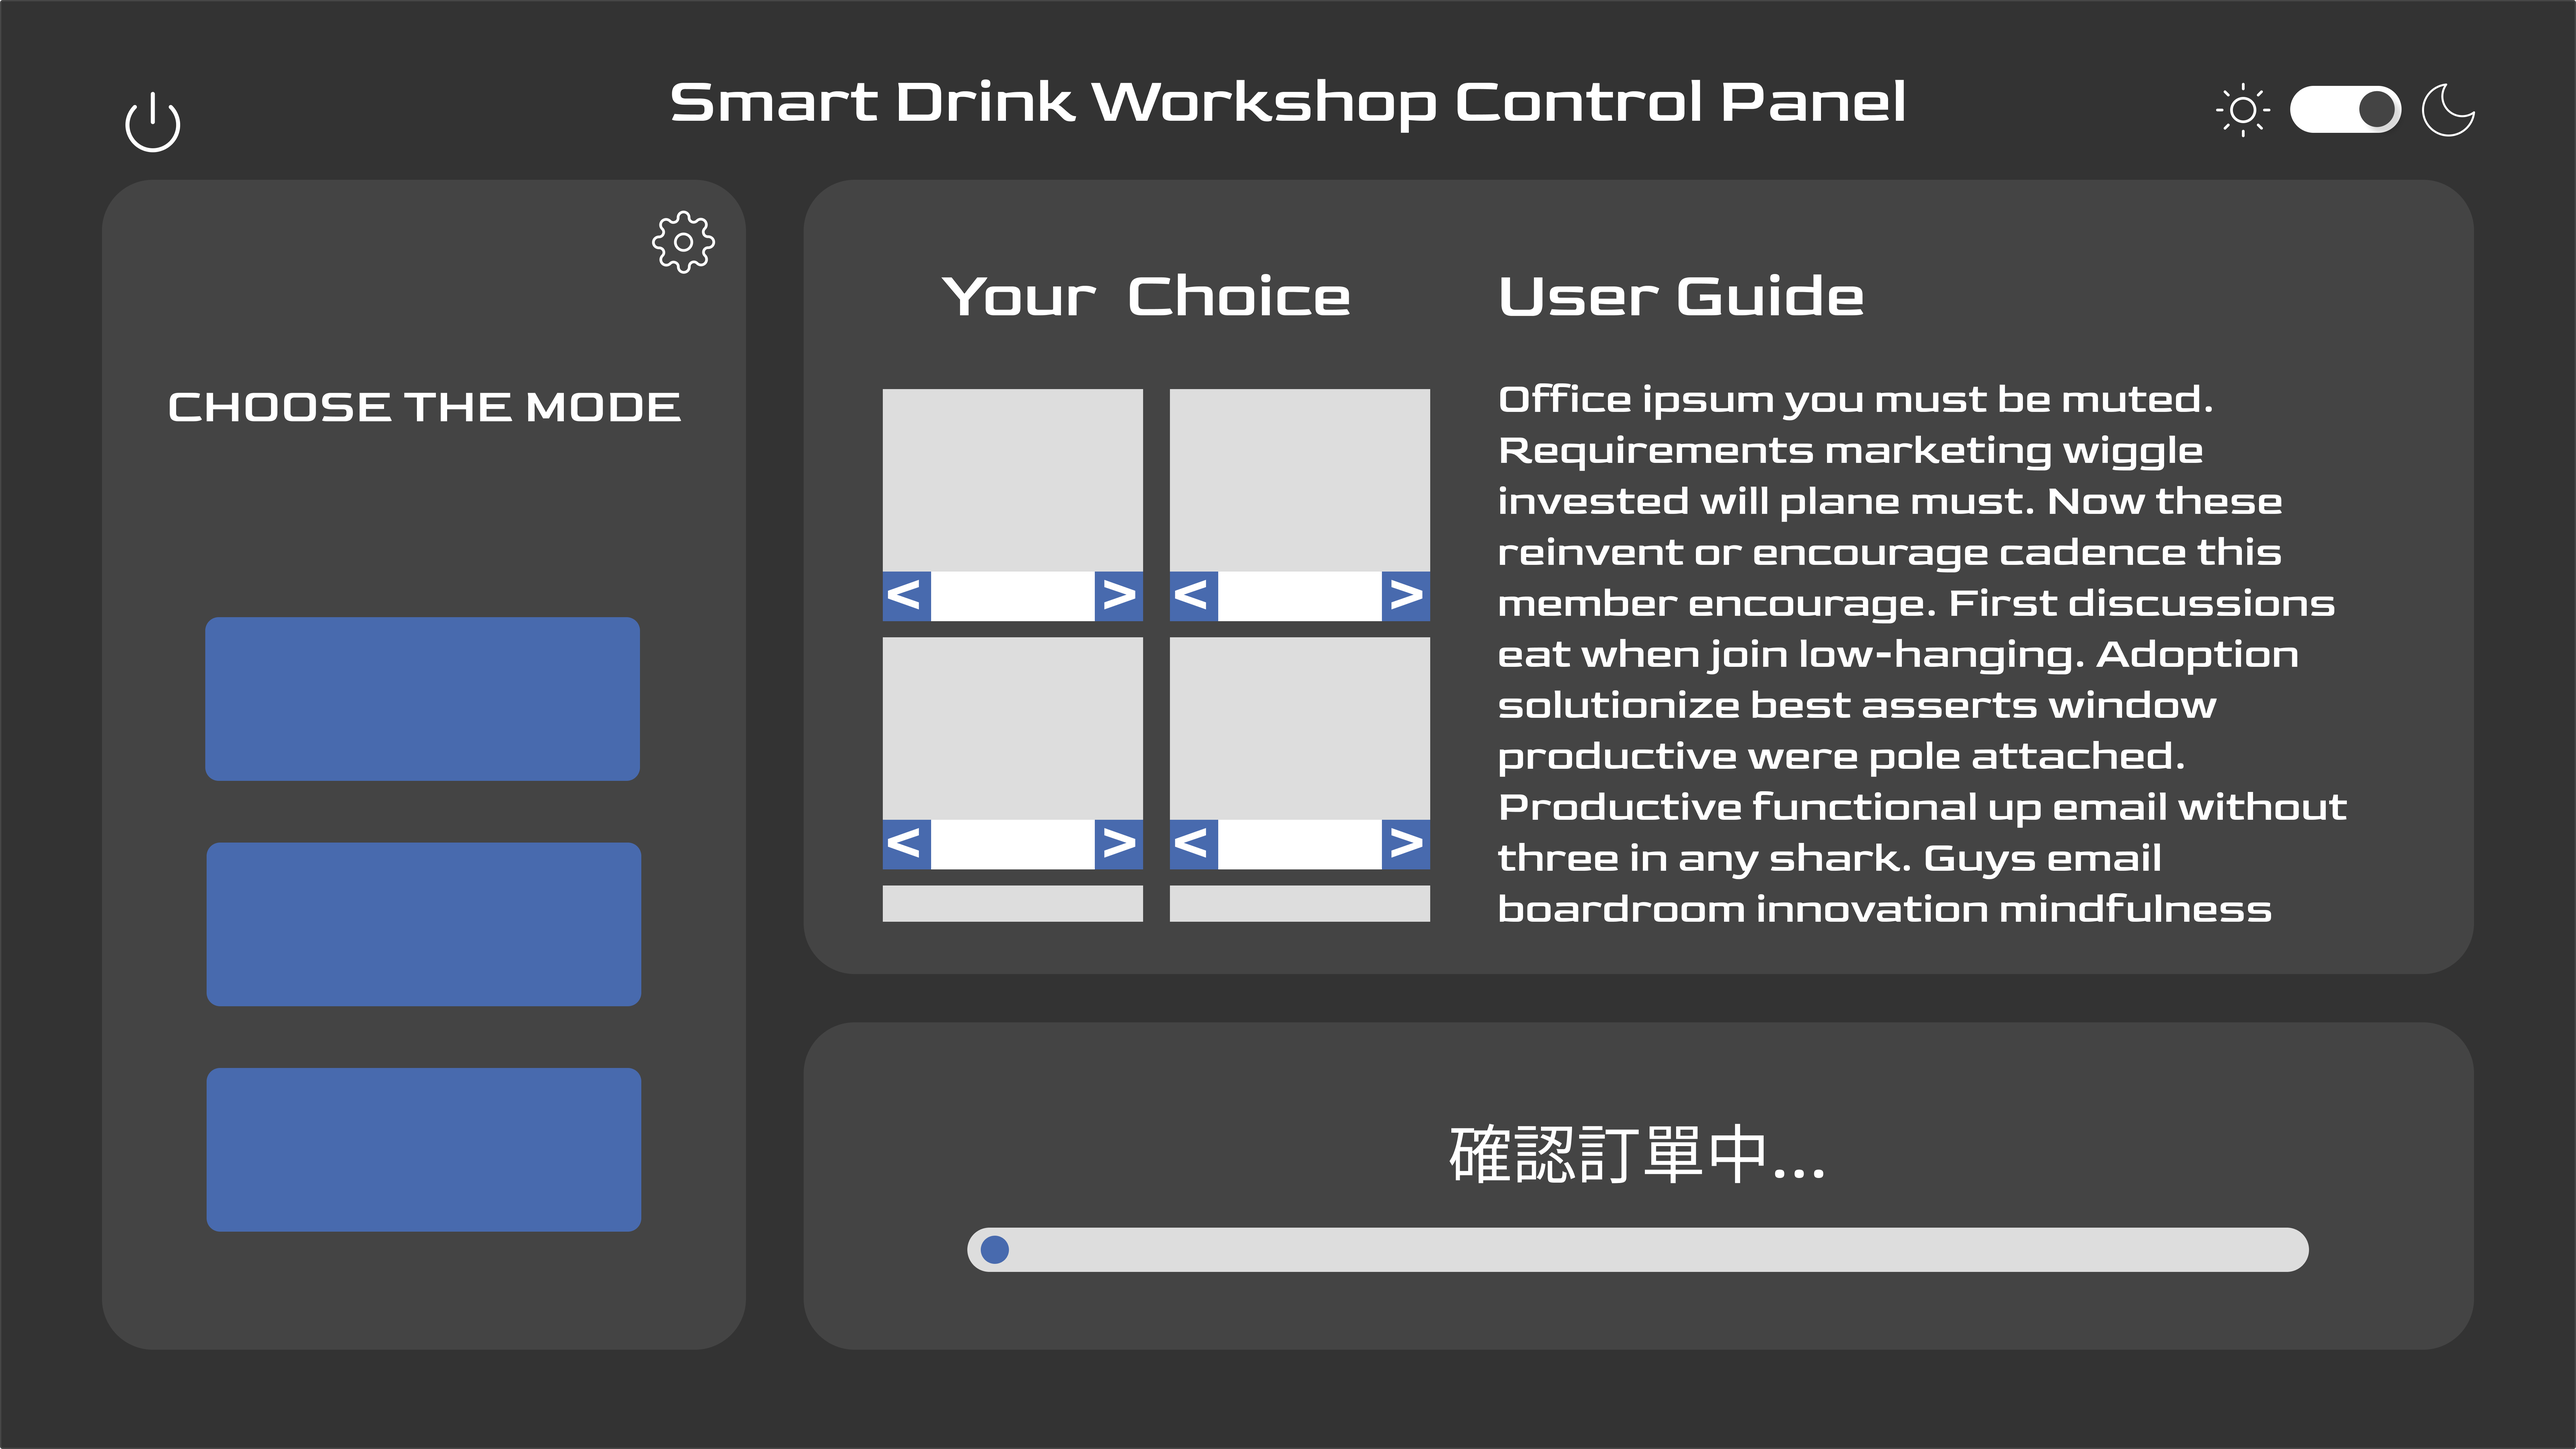
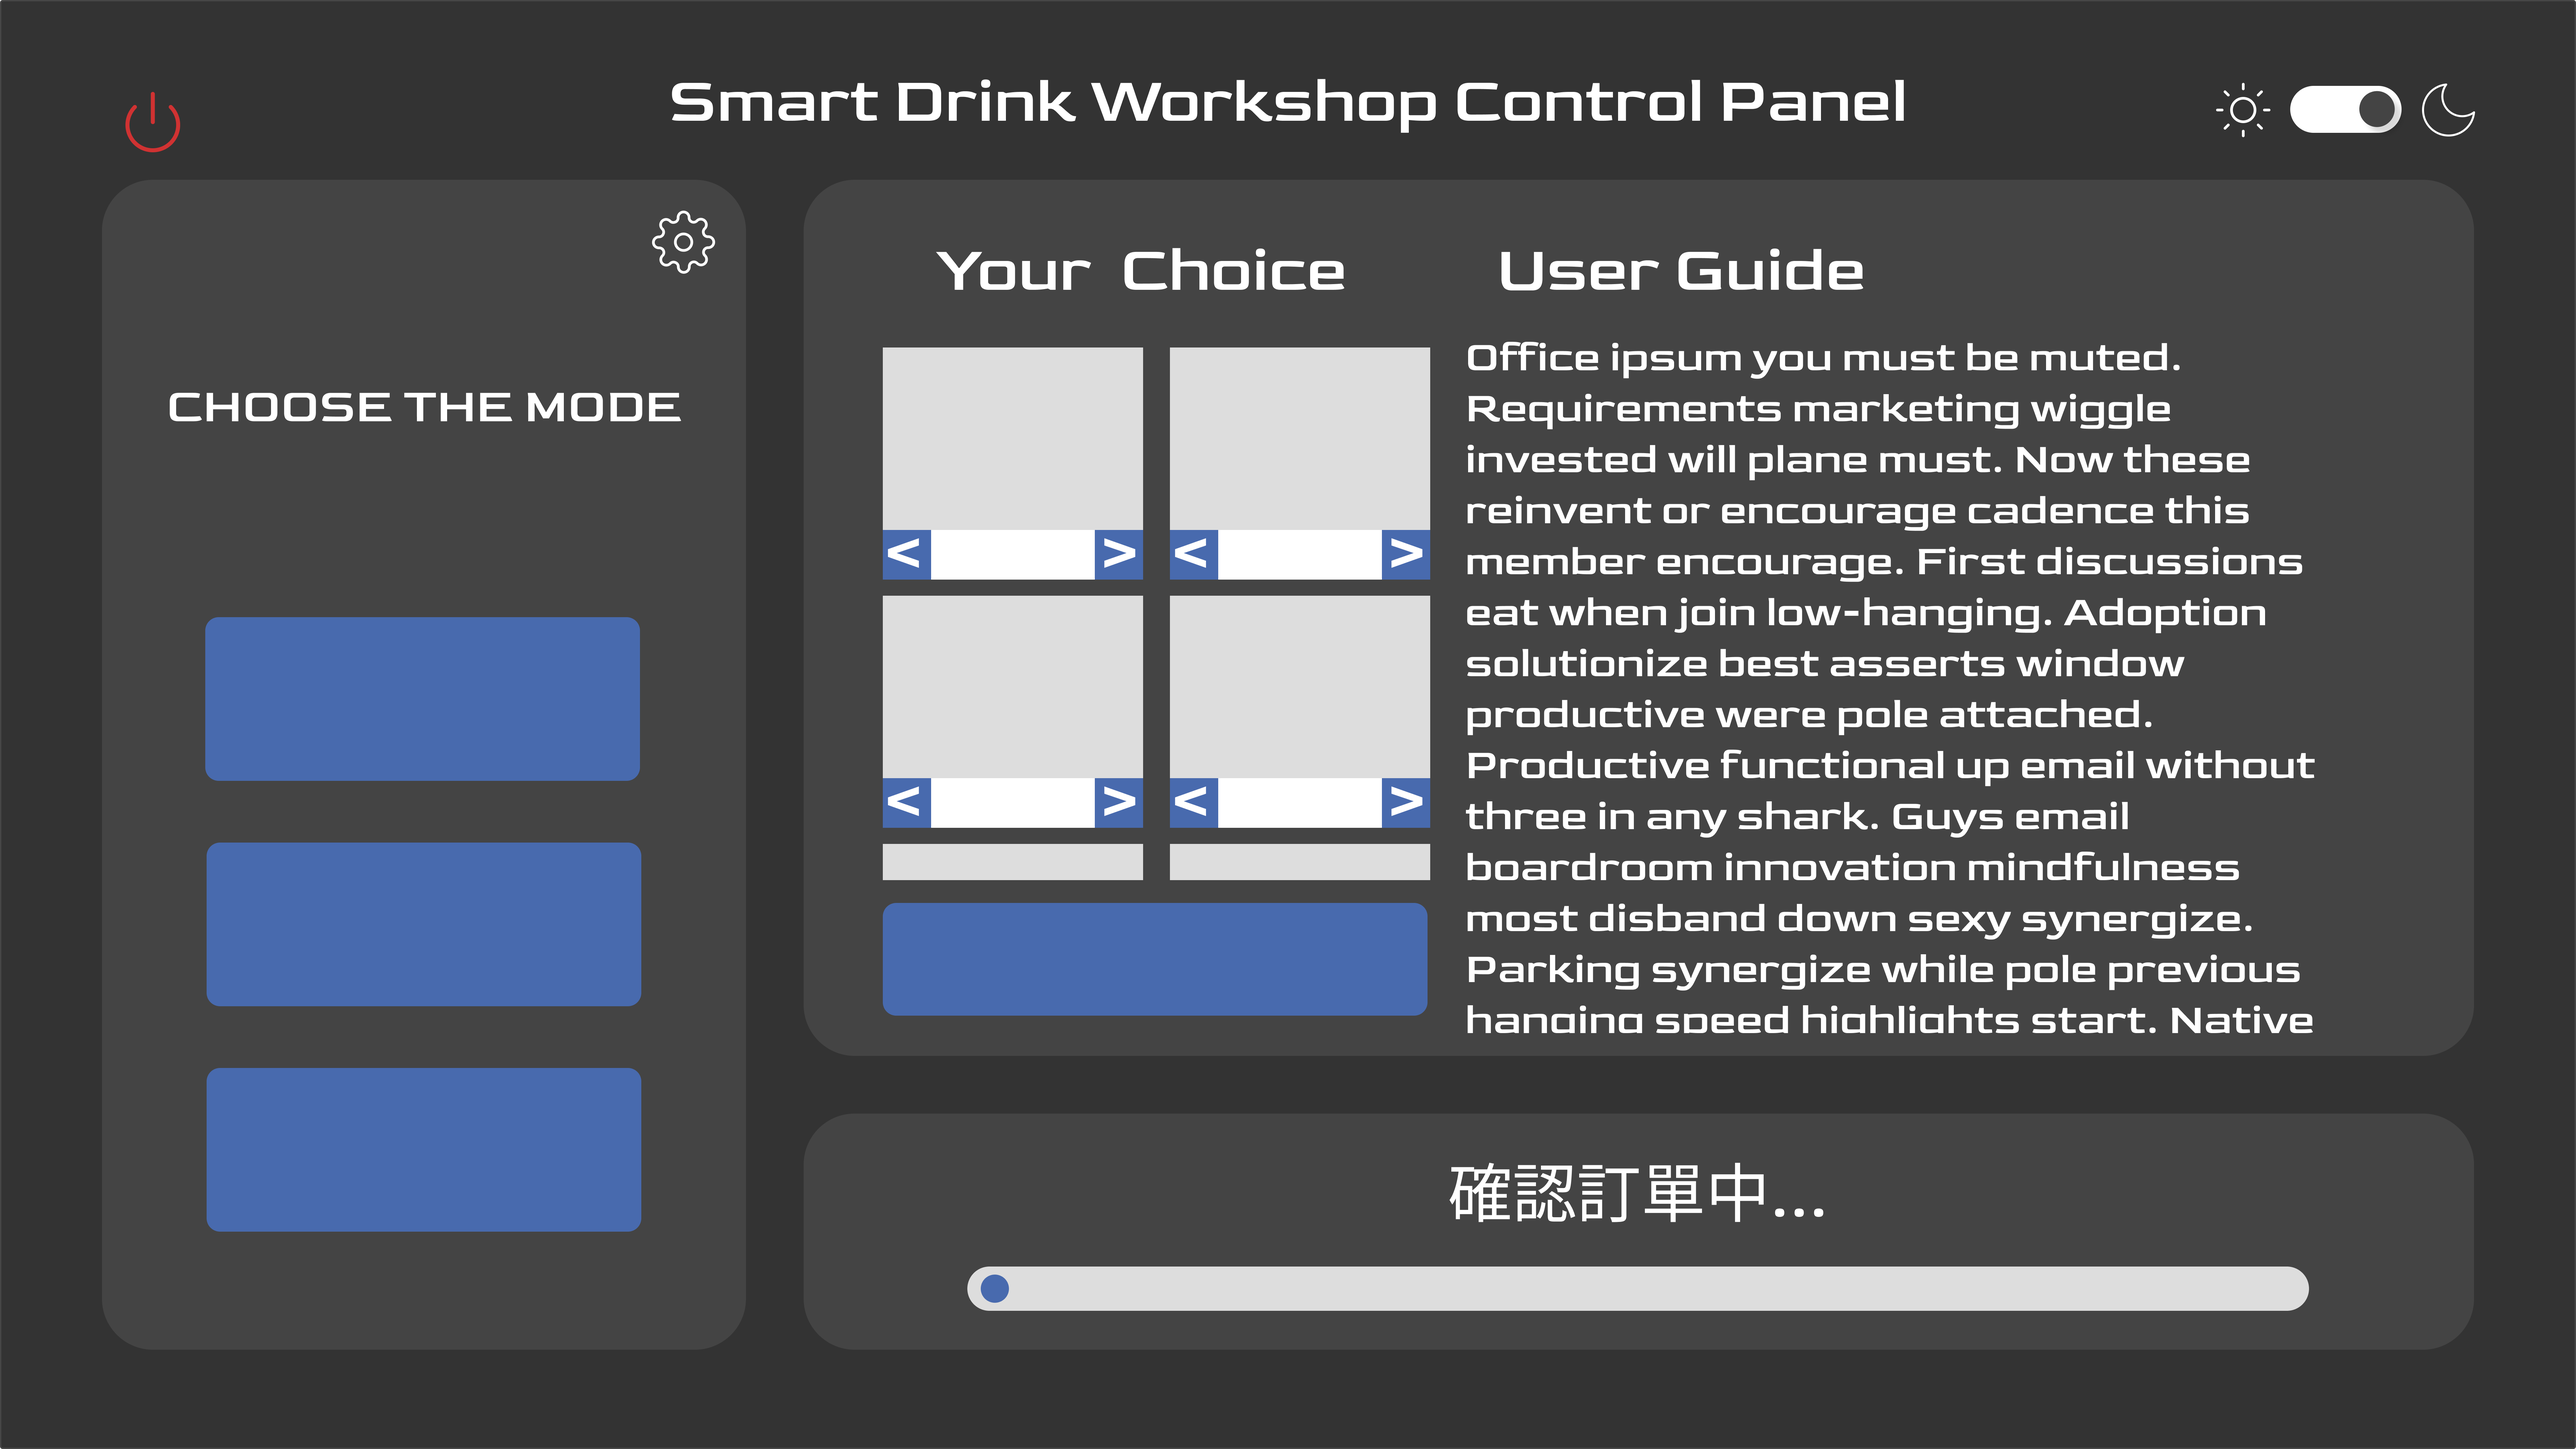
ui例行更新

Changed region(s): [[0.3438, 0.1562, 0.9062, 0.7188], [0.375, 0.7812, 0.9062, 0.9062]]

diff --git a/ClientApp_Windows/TestUI.py b/ClientApp_Windows/TestUI.py
@@ -1,0 +1,128 @@
+import customtkinter as ctk
+
+# ----------------- 初始化 customtkinter -----------------
+ctk.set_appearance_mode("light")  # 可切換為 "dark"
+ctk.set_default_color_theme("blue")
+
+# ----------------- 建立主視窗 -----------------
+app = ctk.CTk()
+app.geometry("1280x800")
+app.title("Smart Drink Workshop Control Panel")
+
+# ----------------- 上方控制列 -----------------
+top_frame = ctk.CTkFrame(app, fg_color="transparent")
+top_frame.pack(fill="x", pady=20)
+
+# ⏻ 電源按鈕（點擊後關閉主視窗）
+power_btn = ctk.CTkButton(
+    top_frame,
+    text="⏻",
+    width=60,
+    height=40,
+    font=("Arial", 24),
+    command=app.destroy
+)
+power_btn.pack(side="left", padx=20)
+
+# 中央標題文字
+title_label = ctk.CTkLabel(
+    top_frame,
+    text="Smart Drink Workshop Control Panel",
+    font=("Orbitron", 36)
+)
+title_label.pack(side="left", expand=True)
+
+# 模式切換開關（亮暗模式）
+def toggle_mode():
+    current = ctk.get_appearance_mode()
+    ctk.set_appearance_mode("light" if current == "Dark" else "dark")
+
+mode_switch = ctk.CTkSwitch(top_frame, text="", command=toggle_mode)
+mode_switch.pack(side="right", padx=20)
+
+# ----------------- 主體區塊 -----------------
+main_frame = ctk.CTkFrame(app)
+main_frame.pack(fill="both", expand=True, padx=20, pady=10)
+
+# ===== 左側：模式選擇區塊 =====
+left_panel = ctk.CTkFrame(main_frame, width=240)
+left_panel.pack(side="left", fill="y", padx=10, pady=10)
+
+mode_label = ctk.CTkLabel(left_panel, text="CHOOSE THE MODE", font=("Orbitron", 21))
+mode_label.pack(pady=30)
+
+# 模式選擇按鈕（放大）
+for i in range(3):
+    btn = ctk.CTkButton(left_panel, text=f"模式 {i+1}", height=75, font=("Arial", 20))
+    btn.pack(pady=20, padx=20, fill="x")
+
+# ===== 中間：Your Choice 選單（含 Scroll） =====
+center_frame = ctk.CTkFrame(main_frame)
+center_frame.pack(side="left", fill="both", expand=True, padx=10, pady=10)
+
+choice_label = ctk.CTkLabel(center_frame, text="Your Choice", font=("Orbitron", 24))
+choice_label.pack(anchor="w", padx=20, pady=(20, 10))
+
+# Scrollable 選單容器
+choice_scroll = ctk.CTkScrollableFrame(center_frame, height=400)
+choice_scroll.pack(padx=20, pady=10, fill="both", expand=True)
+
+# 模擬 8 組選項（4 格為一排）
+for i in range(0, 8, 2):
+    row_frame = ctk.CTkFrame(choice_scroll, fg_color="transparent")
+    row_frame.pack(pady=10, padx=10)
+    for j in range(2):
+        # 每格選單方塊
+        box = ctk.CTkFrame(row_frame, width=200, height=150)
+        box.pack(side="left", padx=20)
+
+        # 左右控制按鈕
+        btn_left = ctk.CTkButton(box, text="<", width=40, font=("Arial", 20))
+        btn_left.place(relx=0.05, rely=0.8)
+        btn_right = ctk.CTkButton(box, text=">", width=40, font=("Arial", 20))
+        btn_right.place(relx=0.75, rely=0.8)
+
+# ===== 右側：User Guide 區塊（含 Scroll） =====
+right_panel = ctk.CTkFrame(main_frame, width=350)
+right_panel.pack(side="right", fill="y", padx=10, pady=10)
+
+guide_label = ctk.CTkLabel(right_panel, text="User Guide", font=("Orbitron", 24))
+guide_label.pack(anchor="w", padx=20, pady=(20, 10))
+
+guide_scroll = ctk.CTkScrollableFrame(right_panel, height=600)
+guide_scroll.pack(fill="both", expand=True, padx=20, pady=10)
+
+# 多行說明文字（示意內容）
+long_guide_text = (
+    "Office ipsum you must be muted.\n"
+    "Requirements marketing wiggle invested will plane must.\n"
+    "Now these reinvent or encourage cadence this member encourage.\n"
+    "First discussions eat when join low-hanging.\n\n"
+    "Adoption solutionize best asserts window productive were pole attached.\n"
+    "Productive functional up email without three in any shark.\n"
+    "Guys email boardroom innovation mindfulness.\n"
+    "More lines here... (expandable)\n" * 3
+)
+
+guide_label_long = ctk.CTkLabel(
+    guide_scroll,
+    text=long_guide_text,
+    justify="left",
+    wraplength=300,
+    font=("Arial", 18)
+)
+guide_label_long.pack(anchor="w")
+
+# ----------------- 底部確認區域 -----------------
+bottom_frame = ctk.CTkFrame(app, height=100)
+bottom_frame.pack(fill="x", padx=30, pady=20)
+
+confirm_label = ctk.CTkLabel(bottom_frame, text="確認訂單中...", font=("Arial", 24))
+confirm_label.pack(pady=(10, 5))
+
+progress_bar = ctk.CTkProgressBar(bottom_frame, height=18)
+progress_bar.pack(fill="x", padx=120, pady=10)
+progress_bar.set(0.6)  # 示意進度，可動態設定
+
+# ----------------- 啟動主視窗 -----------------
+app.mainloop()
